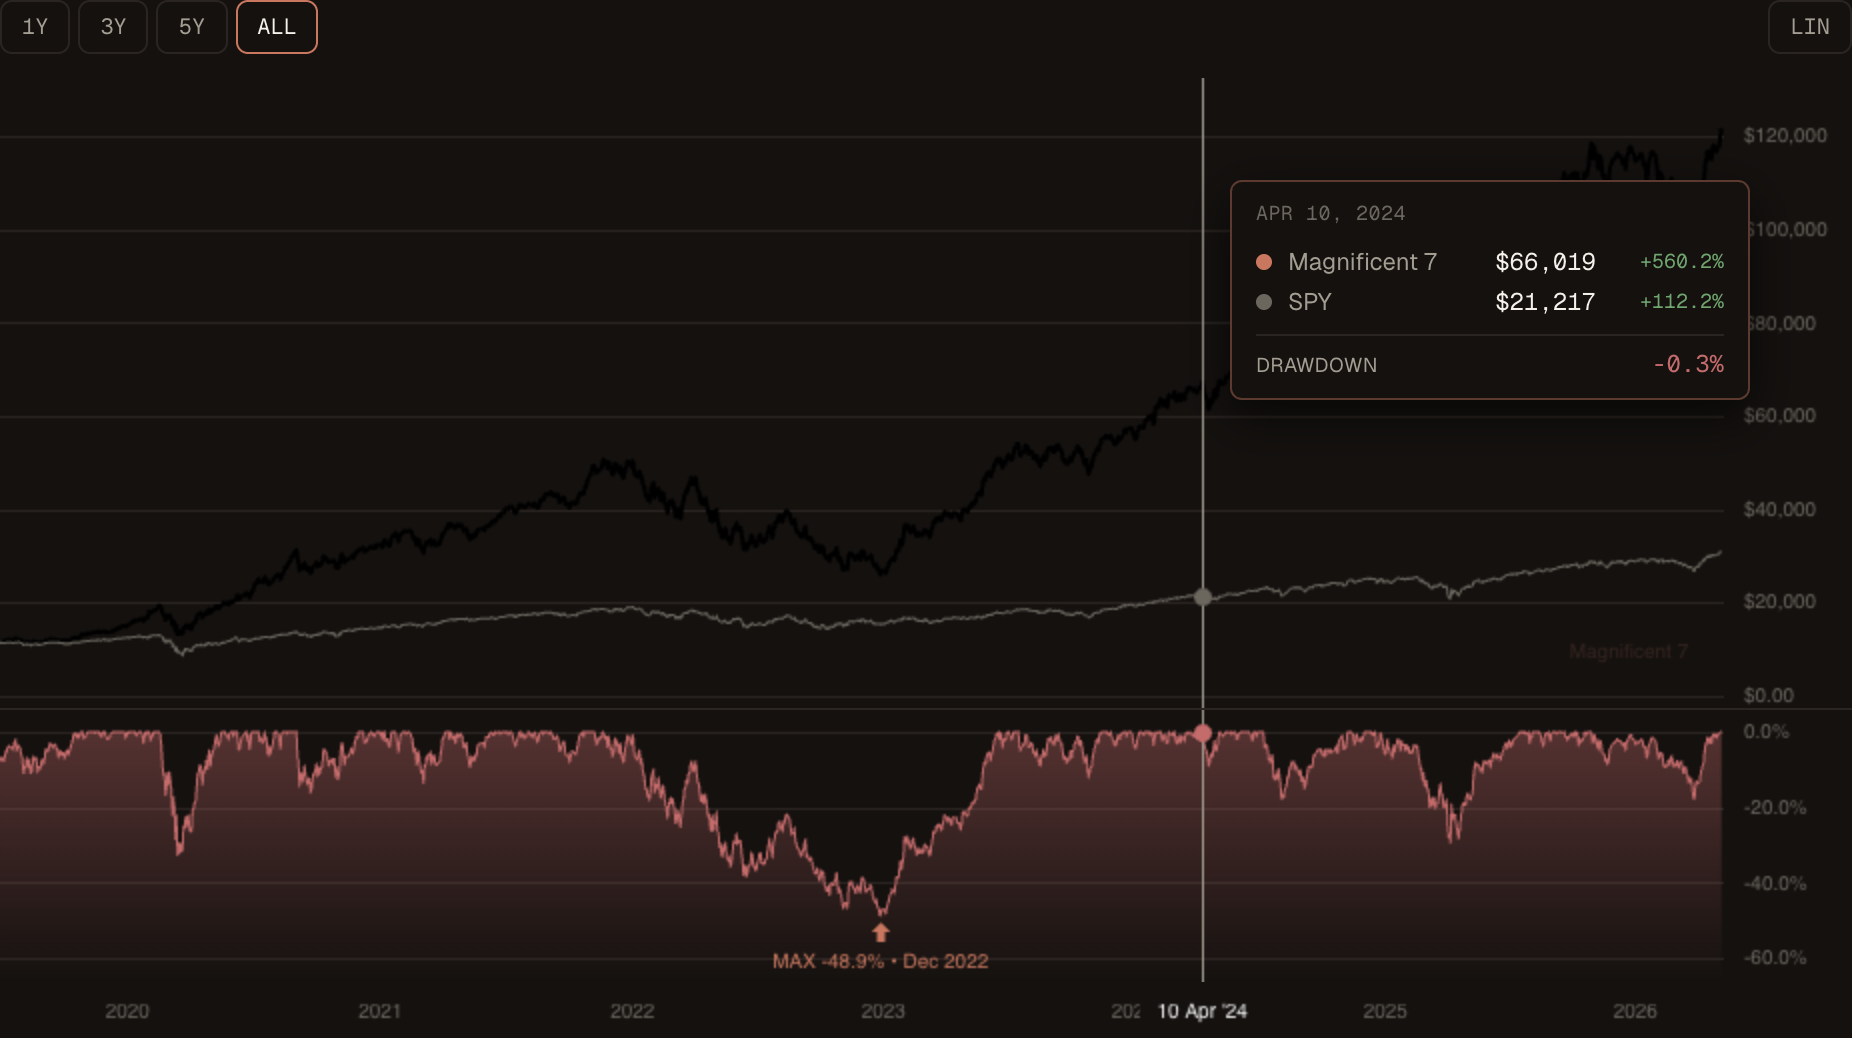
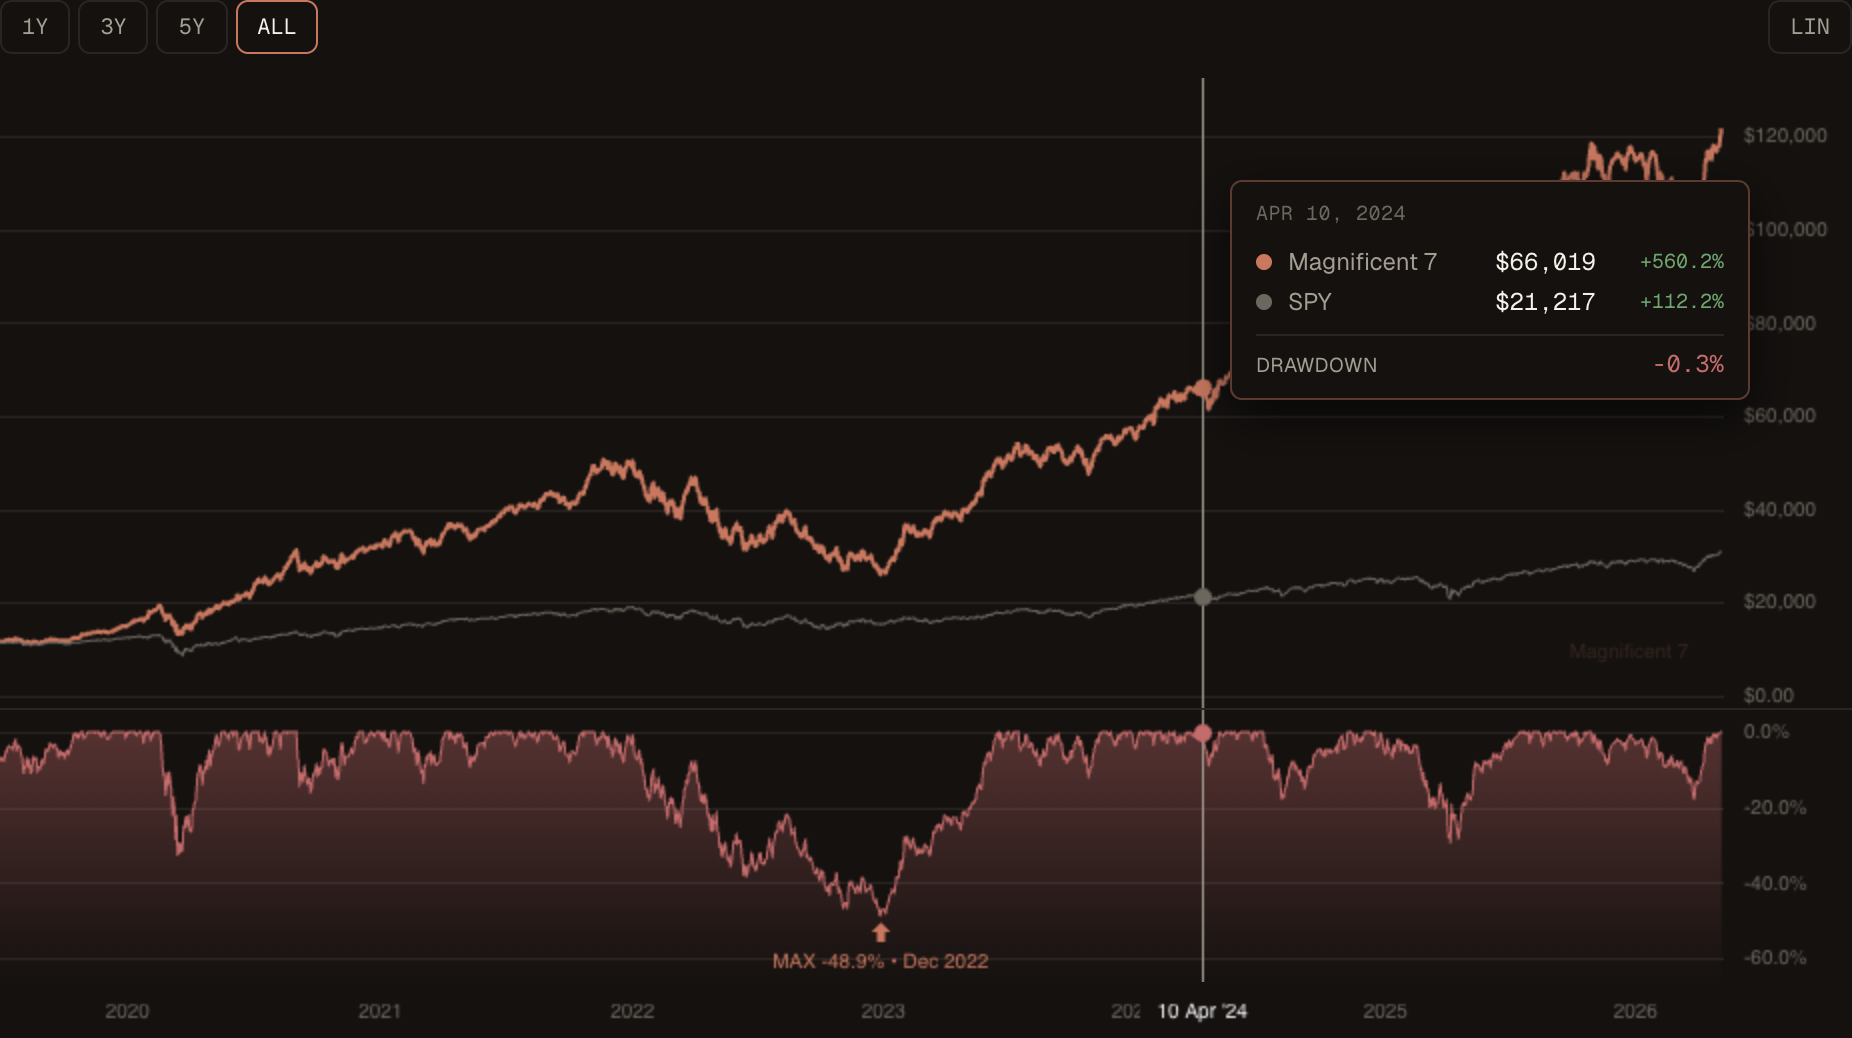
Fix: resolve CSS variables to color values for Lightweight Charts series
The Mag 7 line was rendering as black (nearly invisible) because the
strategy color in components/MetricsTable.tsx was the literal string
'var(--accent)'. Lightweight Charts paints series colors directly onto a
canvas; canvas paint values can't resolve CSS custom properties, so it
silently fell back to black.

The same `STRATEGY_COLORS` array is also used for the legend dots in
the metrics table and the strategy dots in the equity tooltip — both of
those work in either form because they live inside React `style={…}`
inline-style attributes, where the browser resolves `var()` natively.
LWC was the only consumer that needed a parsed colour.

- components/MetricsTable.tsx: STRATEGY_COLORS[0] is now '#c9785f' (the
  resolved hex of `--accent`). Comment in place explaining why we don't
  reference the var here. Same array is used by EquityChart, MetricsTable
  legend dots, and the EquityChart tooltip — all keep working.

Audited the other charts:
- MonthlyHeatmap (CSS grid): all CSS vars sit inside React inline style,
  resolved by the browser. No fix needed.
- ReturnsHistogram + RollingSharpe (Recharts): Recharts forwards `stroke`
  / `fill` props onto SVG elements via inline style, which resolves
  var() correctly. The mean reference line, the rolling-Sharpe line, and
  axis text all rendered correctly in screenshots — confirmed empirically
  on the v1-loaded.png image.
- EquityChart: the rest of its colours (`tertiary`, `secondary`, `border`,
[…]

diff --git a/components/MetricsTable.tsx b/components/MetricsTable.tsx
@@ -1,7 +1,13 @@
 import type { BenchmarkResult, StrategyResult } from '@/lib/types';
 import { decimal, decimalSigned, pct, pctSigned } from '@/lib/format';
 
-const STRATEGY_COLORS = ['var(--accent)', '#5e8a8a', '#8a6e8a'];
+// Strategy line / dot colors. Hex literals — NOT `var(--accent)` — because
+// Lightweight Charts paints series colors directly onto a canvas, and canvas
+// paint values can't resolve CSS custom properties. Recharts works with var()
+// (it converts to inline style on the SVG), but LWC silently falls back to
+// black when it can't parse "var(--accent)". The first colour mirrors
+// `--accent` in `app/globals.css`; if you change the palette, change both.
+const STRATEGY_COLORS = ['#c9785f', '#5e8a8a', '#8a6e8a'];
 
 interface Props {
   results: StrategyResult[];
@@ -42,7 +48,7 @@ export default function MetricsTable({ results, benchmark, onRemove }: Props) {
                   <div className="flex items-center gap-2">
                     <span
                       className="inline-block h-2 w-2 shrink-0 rounded-full"
-                      style={{ background: STRATEGY_COLORS[i] ?? 'var(--accent)' }}
+                      style={{ background: STRATEGY_COLORS[i] ?? STRATEGY_COLORS[0] }}
                     />
                     <span className="font-sans text-ink">{r.name}</span>
                   </div>
